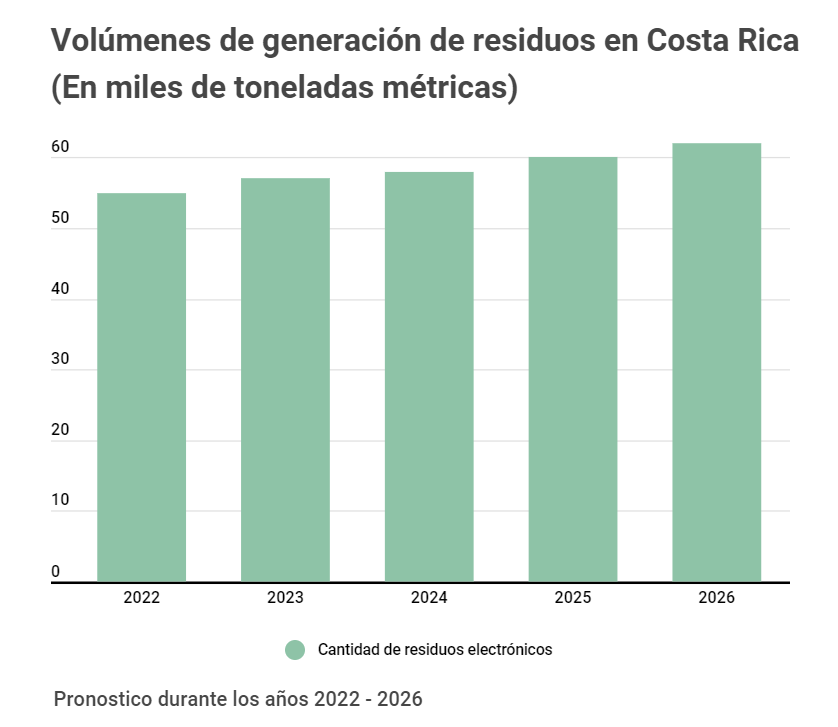
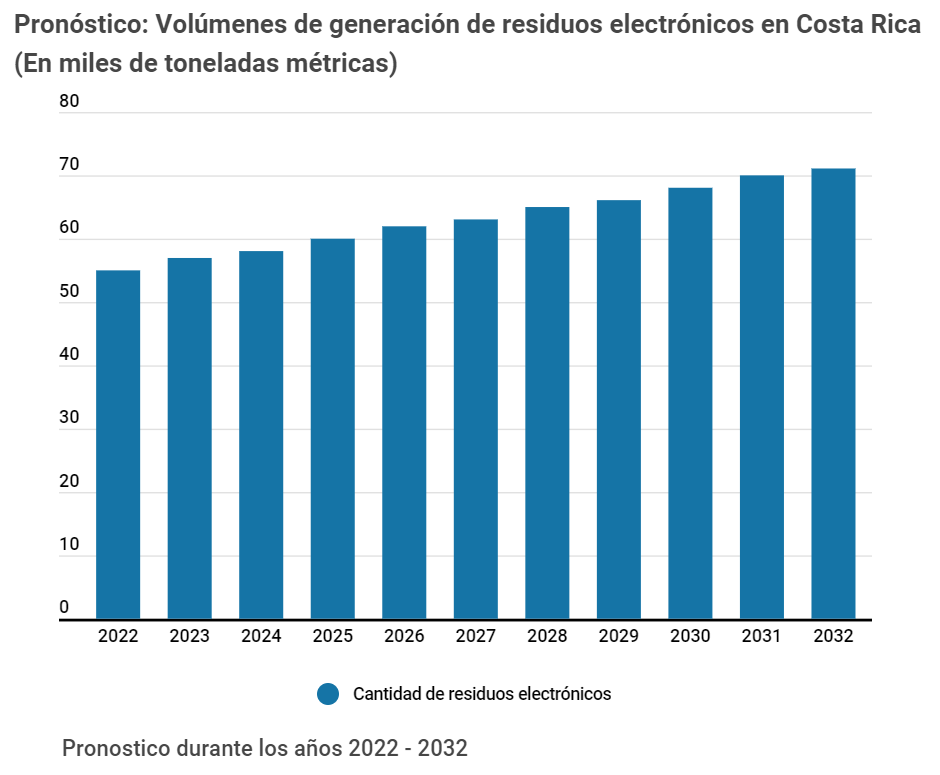
GraficosActualizados

diff --git a/src/Pages/Inicio.jsx b/src/Pages/Inicio.jsx
@@ -131,7 +131,7 @@ const Inicio = () => {
 
       </div>
       <hr />
-      <div className="d-flex justify-content-center align-items-center" ><h3>Volúmenes de generación de residuos en Costa Rica </h3></div>
+      <div className="d-flex justify-content-center align-items-center" ><h3>Volúmenes de generación de residuos electrónicos en Costa Rica </h3></div>
       <hr />
       <div style={{
         margin: "auto 150px"

diff --git a/src/Pages/GraficoArtZonaUrb.jsx b/src/Pages/GraficoArtZonaUrb.jsx
@@ -34,10 +34,7 @@ const GraficosArtZonaUrbana = () => {
                   </p>
 
                 </div>
-                <div class="col-3  p-3">
-                  <p class="text-start"><button type="button" class="btn btn-light" onClick={siguiente}>Siguiente</button></p>
-
-                </div>
+              
               </div>
             </div>
           </div>

diff --git a/src/assets/buttonFile.css b/src/assets/buttonFile.css
@@ -1,6 +1,6 @@
 .btn-file {
     position: relative;
-    overflow: hidden;
+    overflow: hidden; 
 }
 .btn-file input[type=file] {
     position: absolute;
